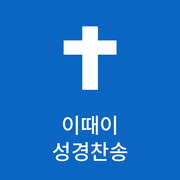
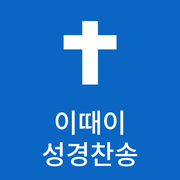
아이콘 글자 키움, 홈화면 이름 성경찬송

diff --git a/index.html b/index.html
@@ -5,7 +5,7 @@
 <meta name="viewport" content="width=device-width, initial-scale=1, viewport-fit=cover">
 <meta name="apple-mobile-web-app-capable" content="yes">
 <meta name="apple-mobile-web-app-status-bar-style" content="default">
-<meta name="apple-mobile-web-app-title" content="이때이 성경찬송">
+<meta name="apple-mobile-web-app-title" content="성경찬송">
 <meta name="theme-color" content="#ffffff">
 <meta name="color-scheme" content="light dark">
 <link rel="manifest" href="manifest.webmanifest">
